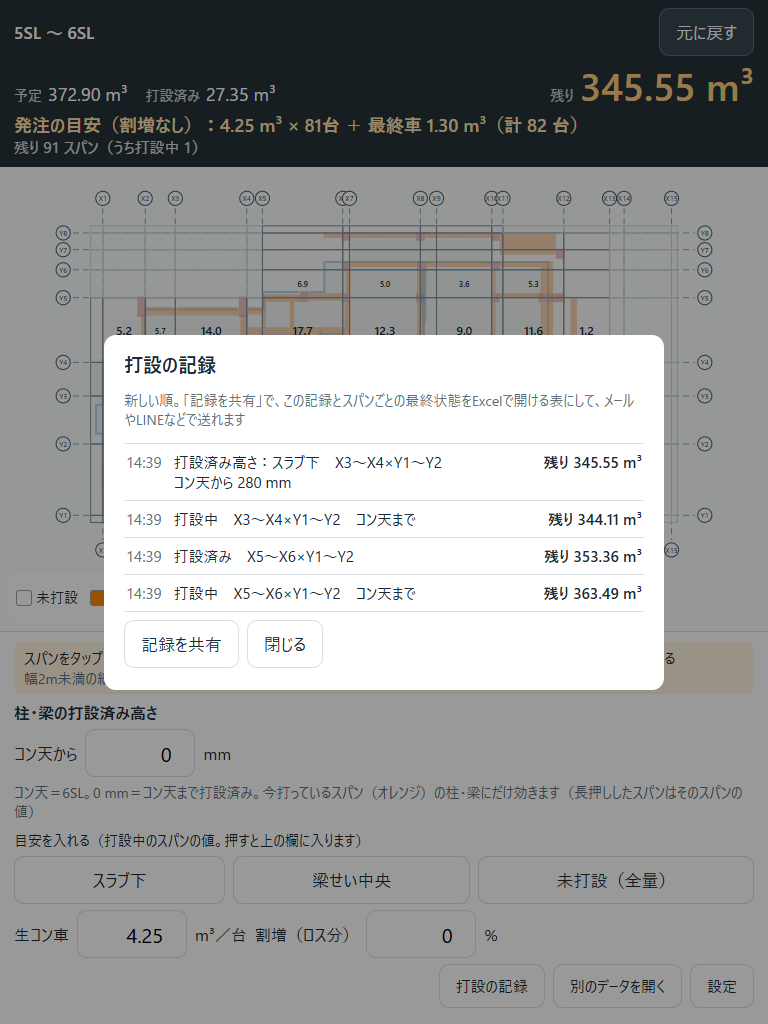
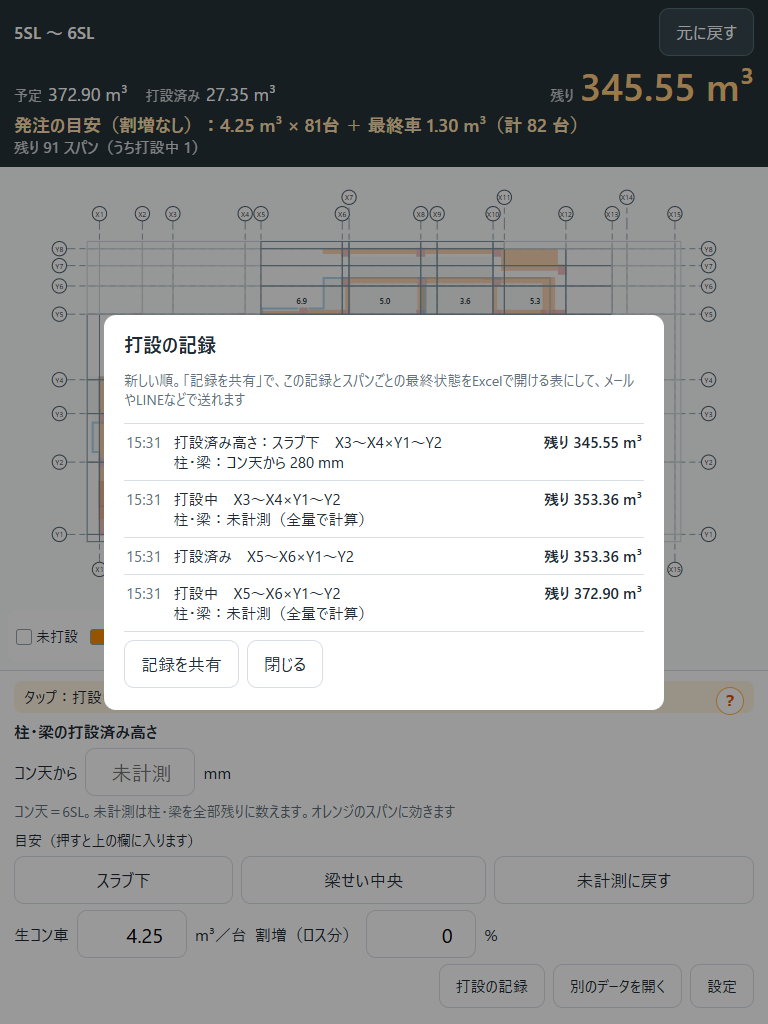
横向きの説明を短く、通り芯の丸印の重なりを解消、PC画面の「CSV」を言い換え（site-reviewer 5回目の指摘）
- タブレット：タップの説明を2行に（「タップ：打設中 → 打設済み → 未打設」「長押し：高さを個別に変える」）。
  細いスパンの注記は「？」を押したときだけ出す。高さの説明・目安の見出しも短く。横向きで設定まで1画面に入る
- 近い通り芯（X6とX7など）の丸印が重なるときは外へずらして線でつなぐ。全体表示は丸印まで入る範囲に
- PC：「残量の一覧表（Excel用）を書き出す」「表に書き出す（Excel用）」。通知の「CSV」も「表」に
- 画面写真を撮り直し。版 1.4.3

diff --git a/site_app/app.js b/site_app/app.js
@@ -2,7 +2,7 @@
 import { fmt, fullVolume, parseSiteData, presetMm, totals, remaining, truckPlan } from './calc.js';
 import { STATUS_NAME, recordCsv, stamp, zoneKeyOf, zoneTitle } from './record.js';
 
-const APP_VERSION = '1.4.2'; // sw.js の VERSION と合わせる（キャッシュで古い版が動いていないか確かめる用）
+const APP_VERSION = '1.4.3'; // sw.js の VERSION と合わせる（キャッシュで古い版が動いていないか確かめる用）
 const $ = (id) => document.getElementById(id);
 const SVGNS = 'http://www.w3.org/2000/svg';
 const CAT_COLORS = { 柱: '#c62828', 梁: '#ef6c00', 壁: '#0288d1', スラブ: '#a0a4a8', 基礎: '#6d4c41', 階段: '#6a1b9a', その他: '#546e7a' };
@@ -175,9 +175,31 @@ function buildPlan() {
   // 通り芯は建物のすぐ外までで切り、丸印（X1 などの記号）をそこに置く。全体表示は丸印まで入る範囲にする
   const r = size * 0.012, pad = size * 0.03;
   const frame = [x0 - pad, y0 - pad, x1 + pad, y1 + pad];
-  const out = pad + r * 2.6;
-  const h = y1 - y0 + 2 * (out + m), legend = h * 0.12; // 下に重なる凡例の分だけ下側を空ける
-  home = [x0 - out - m, -y1 - out - m, x1 - x0 + 2 * (out + m), h + legend];
+  // 丸印の位置。近い通り芯（X6とX7など）で丸印が重なるときは、重ならなくなるまで外へずらす
+  const placed = [], marks = [];
+  const place = (bx, by, dx, dy) => {
+    let px, py, k = 0;
+    do {
+      px = bx + dx * r * (1.4 + 2.3 * k); py = by + dy * r * (1.4 + 2.3 * k); k++;
+    } while (k < 8 && placed.some(([qx, qy]) => Math.hypot(qx - px, qy - py) < r * 2.1));
+    placed.push([px, py]);
+    return [px, py];
+  };
+  for (const g of data.grids ?? []) {
+    const seg = clipToFrame(g.start, g.end, frame);
+    if (!seg) continue;
+    const [[sx, sy], [ex, ey]] = seg, len = Math.hypot(ex - sx, ey - sy) || 1;
+    const ux = (ex - sx) / len, uy = (ey - sy) / len;
+    marks.push({ tag: g.tag, line: [sx, sy, ex, ey],
+      ends: [[sx, sy, ...place(sx, sy, -ux, -uy)], [ex, ey, ...place(ex, ey, ux, uy)]] });
+  }
+  // 全体表示は、建物と丸印が全部入る範囲。下に重なる凡例の分だけ下側を空ける
+  let [bx0, by0, bx1, by1] = [x0, y0, x1, y1];
+  for (const [px, py] of placed) {
+    bx0 = Math.min(bx0, px - r); by0 = Math.min(by0, py - r); bx1 = Math.max(bx1, px + r); by1 = Math.max(by1, py + r);
+  }
+  const h = by1 - by0 + 2 * m, legend = h * 0.12;
+  home = [bx0 - m, -by1 - m, bx1 - bx0 + 2 * m, h + legend];
   setViewBox(home);
 
   // 部材の位置（外接矩形）を種別ごとに1本のパスで薄く描く
@@ -211,16 +233,13 @@ function buildPlan() {
 
   // 通り芯と記号
   const grid = el('g', { class: 'grid' });
-  for (const g of data.grids ?? []) {
-    const seg = clipToFrame(g.start, g.end, frame);
-    if (!seg) continue;
-    const [[sx, sy], [ex, ey]] = seg, len = Math.hypot(ex - sx, ey - sy) || 1;
-    const ux = (ex - sx) / len, uy = (ey - sy) / len;
+  for (const { tag, line: [sx, sy, ex, ey], ends } of marks) {
     grid.appendChild(el('line', { x1: sx, y1: -sy, x2: ex, y2: -ey }));
-    for (const [px, py] of [[sx - ux * r * 1.4, sy - uy * r * 1.4], [ex + ux * r * 1.4, ey + uy * r * 1.4]]) {
+    for (const [lx, ly, px, py] of ends) {
+      grid.appendChild(el('line', { x1: lx, y1: -ly, x2: px, y2: -py })); // 線の端から丸印まで（ずらした分も線でつなぐ）
       grid.appendChild(el('circle', { cx: px, cy: -py, r }));
       const t = el('text', { x: px, y: -py, 'font-size': r * 1.05 });
-      t.textContent = g.tag;
+      t.textContent = tag;
       grid.appendChild(t);
     }
   }
@@ -310,11 +329,10 @@ function render() {
   $('depthLabel').textContent = edit ? `選んだスパン（${edit.label}）だけの打設済み高さ` : '柱・梁の打設済み高さ';
   $('ownBox').classList.toggle('hidden', !edit);
   const cur = edit ? depthOf(editId) : work.depth;
-  const top = `コン天＝${topName ?? '高さ範囲の上端'}。` + (cur === null ? '未計測のあいだは、柱・梁を全部残りに数えています' : '0 mm＝コン天まで打設済み');
+  const top = `コン天＝${topName ?? '高さ範囲の上端'}。` + (cur === null ? '未計測は柱・梁を全部残りに数えます' : '0 mm＝コン天まで打設済み');
   $('depthNote').textContent = edit
-    ? `${top}。ほかの打設中のスパンは共通の値（${depthText(work.depth)}）のまま`
-    : `${top}。` + (pouring ? '今打っているスパン（オレンジ）の柱・梁にだけ効きます（長押ししたスパンはそのスパンの値）'
-      : '今打っているスパンがありません（スパンをタップすると打設中になります）');
+    ? `${top}。ほかの打設中は ${depthText(work.depth)}`
+    : `${top}。` + (pouring ? 'オレンジのスパンに効きます' : 'スパンをタップすると打設中になります');
 }
 
 // 長押し：そのスパンを打設中にして、下段の打ち上がりをそのスパンだけの値にする
@@ -655,6 +673,7 @@ bindNumber('truck', 'truck');
 bindNumber('extra', 'extra');
 document.querySelectorAll('[data-preset]').forEach((b) => b.addEventListener('click', () => applyPreset(b.dataset.preset)));
 $('openHistory').addEventListener('click', openHistory);
+$('hintMore').addEventListener('click', () => $('thinNote').classList.toggle('hidden'));
 $('historyClose').addEventListener('click', () => $('history').classList.add('hidden'));
 $('shareRecord').addEventListener('click', () => shareRecord().catch((e) => toast(`記録を共有できませんでした（詳細：${e.message}）`, 'error')));
 $('ownReset').addEventListener('click', () => endOwnDepth(true));

diff --git a/frontend/app.js b/frontend/app.js
@@ -1644,10 +1644,10 @@ async function exportCsv() {
     body: JSON.stringify({ units: state.units.map((u) => ({ name: u.name, parts: u.parts.map(partJson) })),
       exclude_registered: state.excludeRegistered, detail: true }),
   });
-  if (!res.ok) { toast(`CSVを書き出せません：${await errorDetail(res)}`, 'error'); return; }
+  if (!res.ok) { toast(`表を書き出せません：${await errorDetail(res)}`, 'error'); return; }
   const ur = await res.json();
   if (ur.units.some((u) => !u.members)) { // 画面だけ新しく、計算サーバーが古いまま動いているとき
-    toast('CSVを書き出せません。アプリが古い状態です。いったん閉じて、起動し直してください（start.bat の画面を閉じてから、もう一度起動）', 'error');
+    toast('表を書き出せません。アプリが古い状態です。いったん閉じて、起動し直してください（start.bat の画面を閉じてから、もう一度起動）', 'error');
     return;
   }
   const join = (u, key) => u.parts.map((p) => partFields(p)[key]).join(' ＋ ');
@@ -1675,7 +1675,7 @@ async function exportCsv() {
   const base = `${state.meta.source.replace(/\.ifc$/i, '')}_${stamp()}`;
   download(`${base}_打設リスト.csv`, csvBlob(list));
   setTimeout(() => download(`${base}_部材明細.csv`, csvBlob(detail)), 300); // 2つ目の保存が抑止されないよう少し空ける
-  toast('CSVを書き出しました（打設リスト・部材明細）', 'ok');
+  toast('表を書き出しました（打設リスト・部材明細。Excelで開けます）', 'ok');
 }
 
 function applyPlan(plan) {
@@ -1917,7 +1917,7 @@ $('remainBody').addEventListener('click', (ev) => {
 });
 $('exportSite').addEventListener('click', () => exportSite().catch((e) => toast(`タブレット用に書き出せません：${e.message}`, 'error')));
 $('remainCsv').addEventListener('click', () => exportRemainCsv().catch((e) => toast(`残量の一覧表を書き出せませんでした（詳細：${e.message}）`, 'error')));
-$('exportCsv').addEventListener('click', () => exportCsv().catch((e) => toast(`CSVを書き出せません：${e.message}`, 'error')));
+$('exportCsv').addEventListener('click', () => exportCsv().catch((e) => toast(`表を書き出せません：${e.message}`, 'error')));
 $('planInput').addEventListener('change', (ev) => {
   if (ev.target.files[0]) openPlan(ev.target.files[0]);
   ev.target.value = ''; // 同じファイルをもう一度選べるように

diff --git a/site_app/index.html b/site_app/index.html
@@ -51,8 +51,9 @@
     </div>
 
     <footer class="controls">
-      <div class="taphint">スパンをタップ：1回＝打設中　2回＝打設済み　3回＝未打設　長押し＝打設中にして高さを個別に変える<br>
-        <span class="small muted">幅2m未満の細いスパンは数字を省略しています（量は合計に入っています）</span></div>
+      <div class="taphint"><button id="hintMore" class="hintmore" aria-label="数字のないスパンについて">？</button>
+        <span class="nowrap">タップ：打設中 → 打設済み → 未打設</span>　<span class="nowrap">長押し：高さを個別に変える</span>
+        <div id="thinNote" class="small muted hidden">数字のない細いスパン（幅2m未満）も、量は合計に入っています</div></div>
       <div class="depthhead" id="depthLabel">柱・梁の打設済み高さ</div>
       <div class="row">
         <label for="depth">コン天から</label>
@@ -63,7 +64,7 @@
         <button id="ownReset" class="btn small">共通の高さに戻す</button>
       </div>
       <div id="depthNote" class="small muted"></div>
-      <div class="presetcap">目安を入れる（打設中のスパンの値。押すと上の欄に入ります）</div>
+      <div class="presetcap">目安（押すと上の欄に入ります）</div>
       <div class="row presets">
         <button class="btn" data-preset="slab_bottom_mm">スラブ下</button>
         <button class="btn" data-preset="beam_mid_mm">梁せい中央</button>

diff --git a/frontend/index.html b/frontend/index.html
@@ -91,7 +91,7 @@
         <div class="row nowrap">割増（ロス分） <input id="extraPct" type="number" step="1" min="0" value="0"> %</div>
         <div id="remainResult" class="remain"></div>
         <div class="filebtns">
-          <button id="remainCsv" class="filebtn" title="残りのスパン数ごと・打設済み高さごとの残量と台数の表（印刷して持ち出す用）">残量の一覧表（CSV）を書き出す</button>
+          <button id="remainCsv" class="filebtn" title="残りのスパン数ごと・打設済み高さごとの残量と台数の表（印刷して持ち出す用）">残量の一覧表（Excel用）を書き出す</button>
         </div>
       </div>
     </section>
@@ -125,7 +125,7 @@
       <div id="unitHelp" class="help">上の「打設リストに追加」で数量を積み上げます。パラペットなどは既存の行にまとめられます</div>
       <ul id="unitList" class="list units"></ul>
       <div id="unitSummary"></div>
-      <button id="exportCsv" class="filebtn hidden" title="打設リストと部材明細の2つのCSVを保存します">CSVで書き出す</button>
+      <button id="exportCsv" class="filebtn hidden" title="打設リストと部材明細の2つの表（Excelで開けます）を保存します">表に書き出す（Excel用）</button>
       <label class="row"><input type="checkbox" id="excludeRegistered" checked> リストに入った部分は灰色にして数えない（二重拾い防止）</label>
     </div>
   </aside>

diff --git a/site_app/style.css b/site_app/style.css
@@ -71,6 +71,8 @@ input[type=number] { font: inherit; font-size: 20px; width: 110px; min-height: 4
 /* タップの説明は図に重ねず、入力欄の上に置く */
 .taphint { background: #fff3e0; border-radius: 8px; padding: 6px 10px; font-size: 15px; margin-bottom: 4px; }
 /* 目安ボタンの説明は、コン天の説明と見分けが付くよう1行あけてボタンの直前に */
+.taphint .nowrap { white-space: nowrap; }
+.hintmore { float: right; width: 28px; height: 28px; margin-left: 8px; border-radius: 50%; border: 1px solid #ffb74d; background: #fff; color: #e65100; font-weight: bold; font-size: 15px; padding: 0; }
 .presetcap { font-size: 14px; color: var(--text); margin-top: 10px; }
 .legend { position: absolute; left: 8px; bottom: 8px; display: flex; gap: 12px; align-items: center; flex-wrap: wrap;
   background: rgba(255,255,255,.92); border-radius: 8px; padding: 4px 8px; font-size: 14px; }

diff --git a/site_app/sw.js b/site_app/sw.js
@@ -1,6 +1,6 @@
 // オフラインでも開けるよう、アプリ本体（HTML・JS・CSS・アイコン）だけを保存する。データファイルは保存しない
 // 電波があるときは常に最新版を取りに行き（古い版が残らない）、圏外のときだけ保存した版を使う
-const VERSION = '1.4.2'; // app.js の APP_VERSION と合わせる
+const VERSION = '1.4.3'; // app.js の APP_VERSION と合わせる
 const CACHE = `site-app-${VERSION}`;
 const SHELL = ['./', './index.html', './app.js', './calc.js', './record.js', './style.css', './manifest.webmanifest',
   './icons/icon-192.png', './icons/icon-512.png'];
